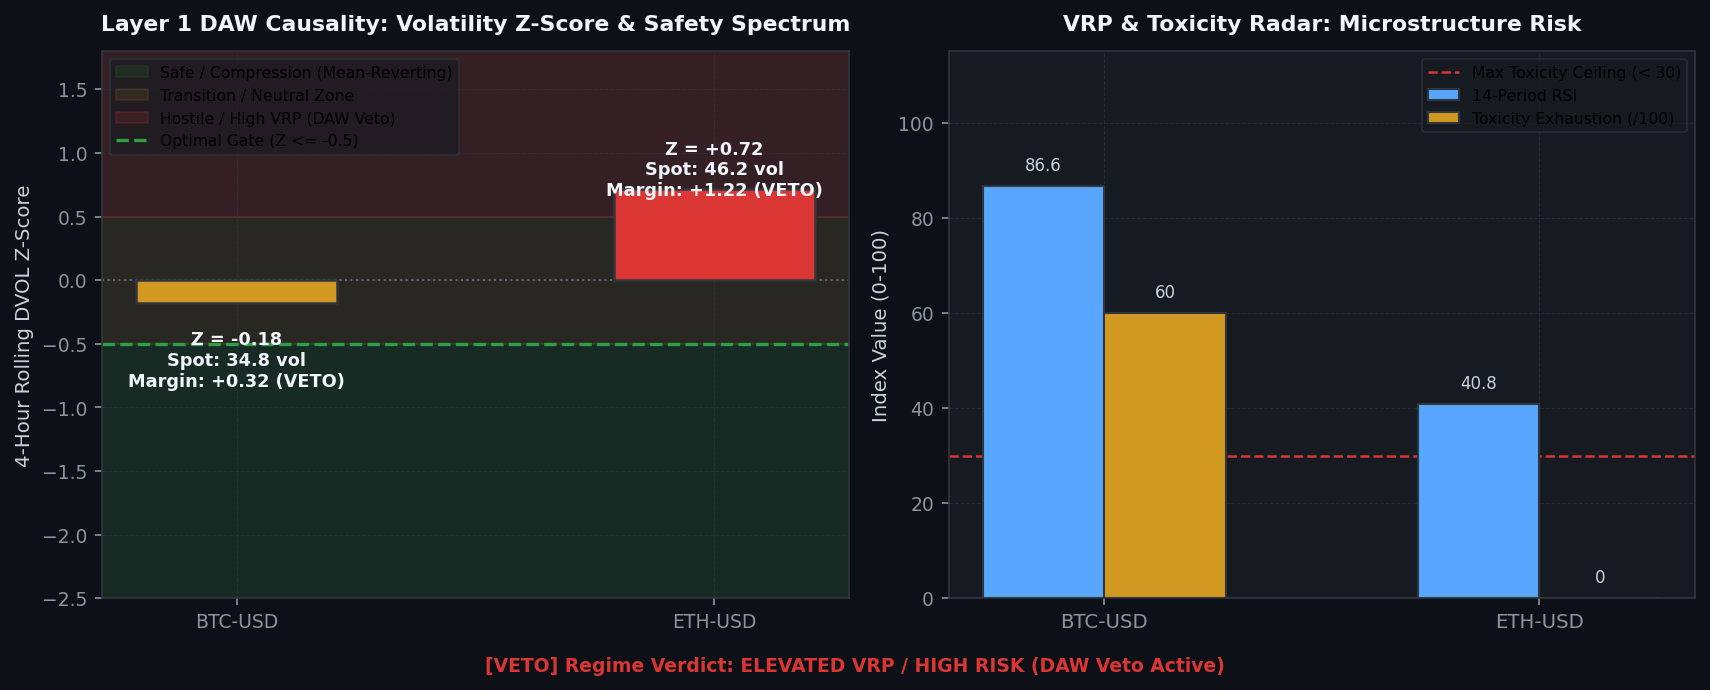
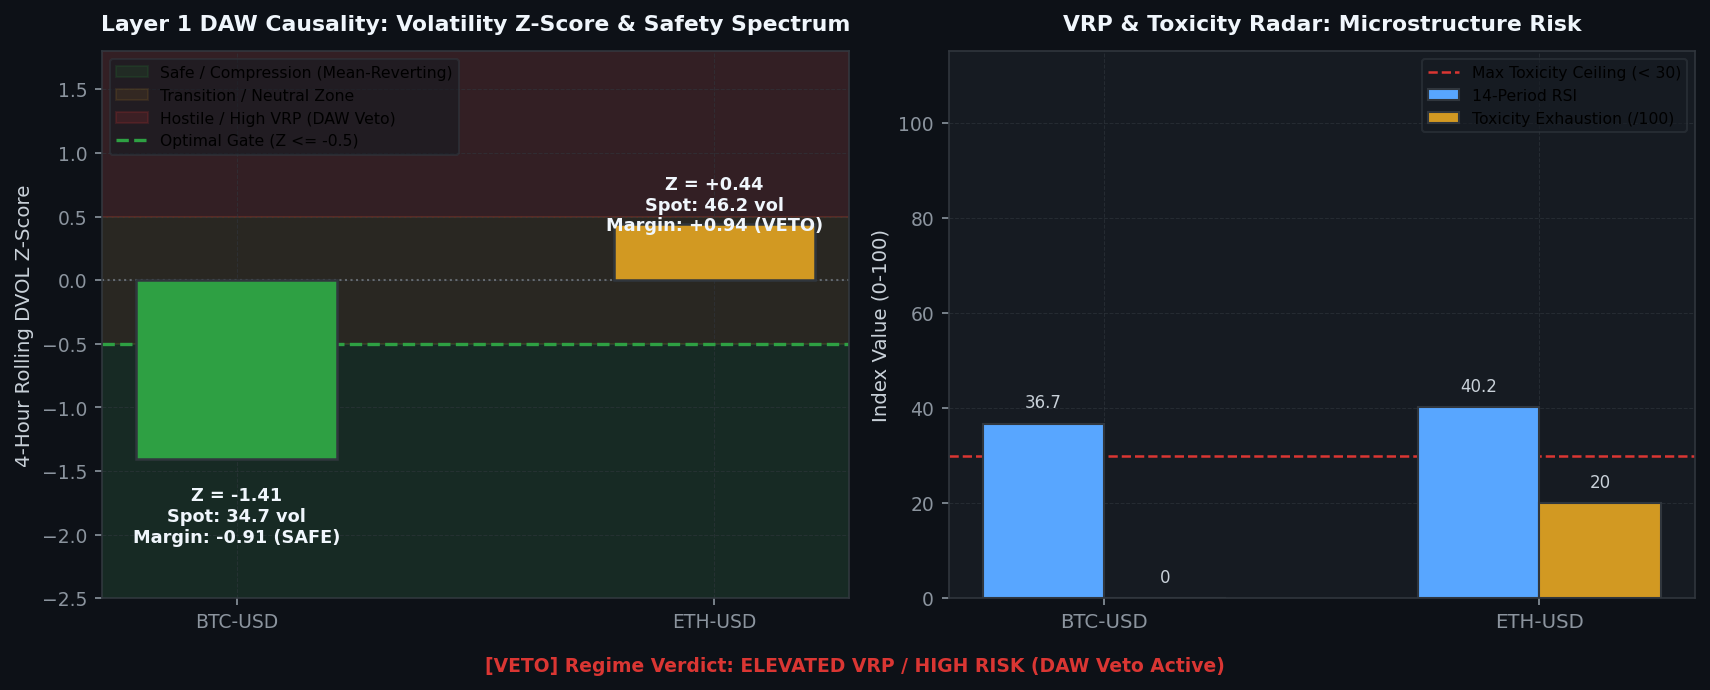
[coinbase] Hourly Status & Visual Intelligence Update: 2026-08-18 23:43:03

diff --git a/coinbase/data/hourly_status_report.md b/coinbase/data/hourly_status_report.md
@@ -3,7 +3,7 @@ layout: default
 ---
 
 # 🛡 Unified Trading System Hourly Status & Visual Intelligence
-> **Report Generated**: `2026-08-18 11:24:41 PM PDT (2026-08-19 06:24:41 UTC)`  
+> **Report Generated**: `2026-08-18 11:42:46 PM PDT (2026-08-19 06:42:46 UTC)`  
 > **System Health**: **🟡 DEGRADED / RESTRICTED** | **Win Rate**: `0.0%` | **Completed Trades**: `0`
 
 
@@ -15,13 +15,13 @@ Real-time Deribit implied volatility (DVOL) proxy tracking against mathematicall
 
 | Symbol | Proxy Oracle | Live Z-Score | Optimal Limit (YSP) | Safety Margin | Live VRP | Optimal VRP (YSP) | DAW Safety Verdict |
 | :--- | :--- | :--- | :--- | :--- | :--- | :--- | :--- |
-| `AVAX-USD` | DVOL_BTC | **-0.25** | **-0.50** | **+0.25** | **+14.84** | 5.0 | 🔴 DAW VETOED |
-| `ETH-USD` | DVOL_ETH | **+0.72** | **-0.50** | **+1.22** | **+26.24** | 5.0 | 🔴 DAW VETOED |
-| `ADA-USD` | DVOL_BTC | **-0.25** | **-0.50** | **+0.25** | **+14.84** | 5.0 | 🔴 DAW VETOED |
-| `DOGE-USD` | DVOL_BTC | **-0.25** | **-0.50** | **+0.25** | **+14.84** | 5.0 | 🔴 DAW VETOED |
-| `BTC-USD` | DVOL_BTC | **-0.25** | **-0.50** | **+0.25** | **+14.84** | 5.0 | 🔴 DAW VETOED |
-| `LINK-USD` | DVOL_BTC | **-0.25** | **-0.50** | **+0.25** | **+14.84** | 5.0 | 🔴 DAW VETOED |
-| `SOL-USD` | DVOL_BTC | **-0.25** | **-0.50** | **+0.25** | **+14.84** | 5.0 | 🔴 DAW VETOED |
+| `AVAX-USD` | DVOL_BTC | **-1.41** | **-0.50** | **-0.91** | **+14.72** | 5.0 | 🔴 DAW VETOED |
+| `ETH-USD` | DVOL_ETH | **+0.50** | **-0.50** | **+1.00** | **+26.23** | 5.0 | 🔴 DAW VETOED |
+| `ADA-USD` | DVOL_BTC | **-1.41** | **-0.50** | **-0.91** | **+14.72** | 5.0 | 🔴 DAW VETOED |
+| `DOGE-USD` | DVOL_BTC | **-1.41** | **-0.50** | **-0.91** | **+14.72** | 5.0 | 🔴 DAW VETOED |
+| `BTC-USD` | DVOL_BTC | **-1.41** | **-0.50** | **-0.91** | **+14.72** | 5.0 | 🔴 DAW VETOED |
+| `LINK-USD` | DVOL_BTC | **-1.41** | **-0.50** | **-0.91** | **+14.72** | 5.0 | 🔴 DAW VETOED |
+| `SOL-USD` | DVOL_BTC | **-1.41** | **-0.50** | **-0.91** | **+14.72** | 5.0 | 🔴 DAW VETOED |
 
 
 
@@ -37,12 +37,12 @@ We hereby certify that the mission-critical algorithmic data assets uploaded by 
 
 | Status | Data Asset | Freshness / State | Details / Timestamp |
 | :---: | :--- | :--- | :--- |
-| ✅ | **Go-List JSON** | Fresh (136.27h old) | 08-13 07:08 |
-| ✅ | **TimesFM Forecasts** | Fresh (0.68h old) | 08-18 22:43 |
-| ✅ | **Holding Times config** | Fresh (157.75h old) | 08-12 09:39 |
-| ✅ | **BTC DVOL Cache** | Fresh (0.01h old) | 08-18 23:24 |
-| ✅ | **ETH DVOL Cache** | Fresh (0.01h old) | 08-18 23:24 |
-| ✅ | **Live Trading Telemetry** | Fresh (0.00h old) | 08-18 23:24 |
+| ✅ | **Go-List JSON** | Fresh (136.57h old) | 08-13 07:08 |
+| ✅ | **TimesFM Forecasts** | Fresh (0.98h old) | 08-18 22:43 |
+| ✅ | **Holding Times config** | Fresh (158.05h old) | 08-12 09:39 |
+| ✅ | **BTC DVOL Cache** | Fresh (0.00h old) | 08-18 23:42 |
+| ✅ | **ETH DVOL Cache** | Fresh (0.00h old) | 08-18 23:42 |
+| ✅ | **Live Trading Telemetry** | Fresh (0.00h old) | 08-18 23:42 |
 
 <br>
 
@@ -55,7 +55,7 @@ Layer-by-layer tick evaluation waterfall and asset-specific performance tracking
 
 | Funnel Filter Layer | Total Rejections | % of Rejections |
 | :--- | :--- | :--- |
-| Tier 1: Macro Volatility Tensor Gate (Omega_macro) | `5,264` | **100.0%** |
+| Tier 1: Macro Volatility Tensor Gate (Omega_macro) | `5,621` | **100.0%** |
 | Tier 2: Unified Transport & Directional Engine | `0` | **0.0%** |
 | Tier 3: Continuous Hawkes-SFGK Pricer (HAS-Pricer) | `0` | **0.0%** |
 | System: Asset Cooldown Active | `0` | **0.0%** |
@@ -81,14 +81,14 @@ Live balance sheet and open maker liquidity positions from Coinbase CDP.
 ## 4. 🤖 Foundation Model MLOps & Pipeline Orchestration
 Weekly Algorithmic Mega Cap selection, Zero-shot multi-step forward return forecasts, and VSTEF parameter grid search status.
 
-- **TimesFM Forecast DB**: 🟢 Updated 0.7h ago (2026-08-18 10:43 PM PDT)
+- **TimesFM Forecast DB**: 🟢 Updated 1.0h ago (2026-08-18 10:43 PM PDT)
 - **Last Weekly VSTEF Optimization**: `2026-08-05 09:22:38 AM PDT`
-- **Next Scheduled VSTEF Run**: `2026-08-23 07:00:00 PM PDT (Monday 02:00 UTC)` (Countdown: **115.6h (4d 19h 35m)**)
+- **Next Scheduled VSTEF Run**: `2026-08-23 07:00:00 PM PDT (Monday 02:00 UTC)` (Countdown: **115.3h (4d 19h 17m)**)
 - **Promoted Parameter Gates**: $Z_{DVOL} \le -0.5$ | Holding Horizon $= 12\text{h}$
 
 ### Algorithmic Mega Cap Selection
 - **Last Run (Confirmation)**: `Never`
-- **Next Scheduled Run**: `2026-08-23 06:00:00 PM PDT (Monday 01:00 UTC)` (Countdown: **114.6h (4d 18h 35m)**)
+- **Next Scheduled Run**: `2026-08-23 06:00:00 PM PDT (Monday 01:00 UTC)` (Countdown: **114.3h (4d 18h 16m)**)
 - **Selected Mega Cap Universe**: `Could not fetch active universe from EC2`
 
 
@@ -102,19 +102,19 @@ Visualizing the impact of the VSTEF (Volatility-Synchronized Stop-Tightening Exe
 ## 5. 🖥 Multi-Node Infrastructure & Watchdog Matrix
 ```text
 ================================================================================
-   🛡  SFGK FUNNEL GUARDIAN WATCHDOG (HFT ONLY) |  06:24:38 AM
-   CPU:   3.1%  |  MEM:   5.8% (14.5GB / 15.4GB Free)
+   🛡  SFGK FUNNEL GUARDIAN WATCHDOG (HFT ONLY) |  06:42:46 AM
+   CPU:   6.2%  |  MEM:   5.2% (14.6GB / 15.4GB Free)
 ================================================================================
 SERVICE              | PID      | STATUS          | RESTARTS | INFO
 --------------------------------------------------------------------------------
 L3 Consumer          | 4182999  | RUNNING         | -        | Continuous Websocket Feed
-Trader AVAX-USD      | 26529    | COOL-DOWN       | 120      | Next run in 9.7s
-Trader ETH-USD       | 26530    | COOL-DOWN       | 120      | Next run in 9.7s
-Trader ADA-USD       | 26531    | COOL-DOWN       | 120      | Next run in 9.7s
-Trader DOGE-USD      | 26532    | COOL-DOWN       | 120      | Next run in 9.7s
-Trader BTC-USD       | 26533    | COOL-DOWN       | 120      | Next run in 9.7s
-Trader LINK-USD      | 26534    | COOL-DOWN       | 120      | Next run in 9.7s
-Trader SOL-USD       | 26535    | COOL-DOWN       | 120      | Next run in 9.7s
+Trader AVAX-USD      | 42205    | COOL-DOWN       | 171      | Next run in 4.6s
+Trader ETH-USD       | 42206    | COOL-DOWN       | 171      | Next run in 4.6s
+Trader ADA-USD       | 42207    | COOL-DOWN       | 171      | Next run in 4.6s
+Trader DOGE-USD      | 42208    | COOL-DOWN       | 171      | Next run in 4.6s
+Trader BTC-USD       | 42209    | COOL-DOWN       | 171      | Next run in 4.6s
+Trader LINK-USD      | 42210    | COOL-DOWN       | 171      | Next run in 4.6s
+Trader SOL-USD       | 42211    | COOL-DOWN       | 171      | Next run in 4.6s
 ================================================================================
 ```
 

diff --git a/coinbase/data/visual_intelligence.md b/coinbase/data/visual_intelligence.md
@@ -4,7 +4,7 @@ title: Visual Intelligence Gallery
 ---
 
 # 📈 Visual Intelligence Gallery
-> **Generated:** `2026-08-18 23:24:58`
+> **Generated:** `2026-08-18 23:43:03`
 > **[Return to Main Status Report](./hourly_status_report.html)**
 
 This page visualizes the internal states, market profiles, and decision criteria of the active **3-Tier Fused Decision Engine** across all layers.
